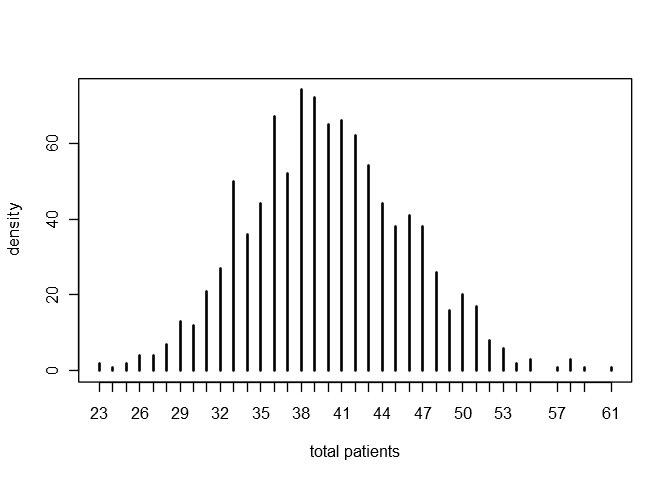
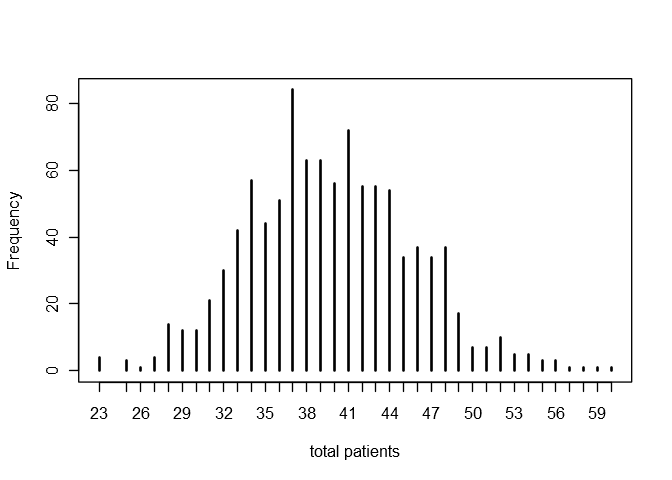
Tweaked figures in ch01 exercises
Figures are now more appropriate types and have more appropriate axis labels.

diff --git a/exercises-ch01.md b/exercises-ch01.md
@@ -225,16 +225,16 @@ sim()
 ```
 
     ## $patients
-    ## [1] 43
+    ## [1] 46
     ## 
     ## $waited
-    ## [1] 13
+    ## [1] 5
     ## 
     ## $meanwait
-    ## [1] 12
+    ## [1] 4.6
     ## 
     ## $close
-    ## [1] 437
+    ## [1] 432
 
 ### (b)
 
@@ -255,25 +255,25 @@ for(i in 1:sims){
 }
 meanwaits <- na.omit(meanwaits)
 
-simplehist(patients, xlab = "total patients", ylab = "density", main = "")
+simplehist(patients, xlab = "total patients")
 ```
 
 ![](ch01ex_figs/ch01ex-unnamed-chunk-9-1.png)<!-- -->
 
 ``` r
-simplehist(waited, xlab = "number who waited", ylab = "density", main = "")
+simplehist(waited, xlab = "number of patients who waited")
 ```
 
 ![](ch01ex_figs/ch01ex-unnamed-chunk-9-2.png)<!-- -->
 
 ``` r
-simplehist(meanwaits, xlab = "mean wait time", ylab = "density", main = "")
+plot(density(meanwaits), xlab = "mean wait time (in minutes)", ylab = "density", main = "")
 ```
 
 ![](ch01ex_figs/ch01ex-unnamed-chunk-9-3.png)<!-- -->
 
 ``` r
-simplehist(close, xlab = "minutes office was open", ylab = "density", main = "")
+simplehist(close, xlab = "minutes office was open")
 ```
 
 ![](ch01ex_figs/ch01ex-unnamed-chunk-9-4.png)<!-- -->
@@ -292,9 +292,9 @@ data.frame(
 ```
 
     ##                         median middle50percent
-    ## total patients           40.00         36 - 44
+    ## total patients           39.00         36 - 44
     ## number who waited         3.00           1 - 6
-    ## mean wait time            3.83        2.75 - 5
+    ## mean wait time            3.71        2.55 - 5
     ## minutes office was open 426.00       420 - 432
 
 -----
